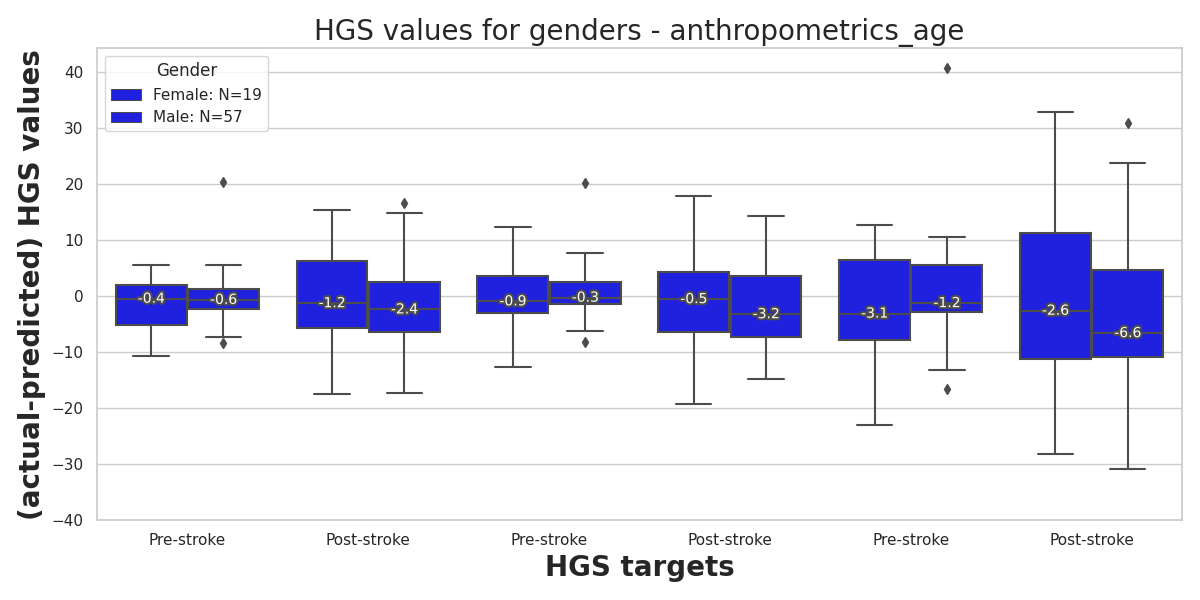
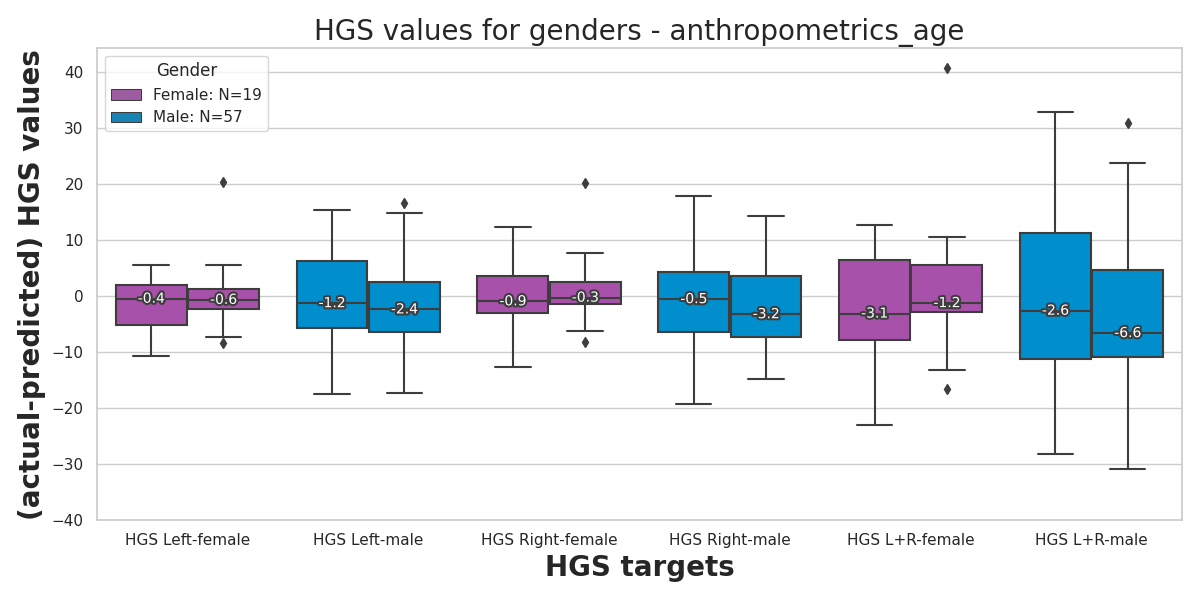
modified plots

diff --git a/exec/plots/plot_data_distribution/stroke/hgs_data_distripution_boxplot/longitudinal_stroke/boxplots_hgs_longitudinal_stroke_distribution_female_male_nexttoeachother.py b/exec/plots/plot_data_distribution/stroke/hgs_data_distripution_boxplot/longitudinal_stroke/boxplots_hgs_longitudinal_stroke_distribution_female_male_nexttoeachother.py
@@ -50,75 +50,6 @@ def add_median_labels(ax, fmt='.1f'):
 # print("===== Done! =====")
 # embed(globals(), locals())
 ###############################################################################
-# Create a list of column groups
-for yaxis_target in ["actual", "predicted", "(actual-predicted)"]:
-    column_groups = [
-    ("HGS Left", [f"1st_pre-stroke_hgs_left_{yaxis_target}", f"1st_post-stroke_hgs_left_{yaxis_target}"]),
-    ("HGS Right", [f"1st_pre-stroke_hgs_right_{yaxis_target}", f"1st_post-stroke_hgs_right_{yaxis_target}"]),
-    ("HGS L+R", [f"1st_pre-stroke_hgs_L+R_{yaxis_target}", f"1st_post-stroke_hgs_L+R_{yaxis_target}"])
-    ]
-
-    # Initialize an empty list to store the melted DataFrames
-    melted_dfs = []
-    # Iterate through column groups and create melted DataFrames
-    for group_name, group_columns in column_groups:
-        # Melt the DataFrame for the current group
-        melted_group = pd.melt(df_combined, id_vars=["gender"], value_vars=group_columns, var_name="variable", ignore_index=False)
-        
-        # Create 'hgs_category' based on 'group_name'
-        melted_group['hgs_category'] = group_name
-        
-        # Create 'stroke_cohort' based on 'variable'        
-        melted_group['stroke_cohort'] = melted_group['variable'].apply(lambda x: 'Pre-stroke' if 'pre-stroke' in x else ('Post-stroke' if 'post-stroke' in x else None))             
-        # Add a new column based on the combination of 'hgs_category' and 'stroke_cohort'
-        melted_group['combine_hgs_stroke_cohort_category'] = group_name + '-' + melted_group['stroke_cohort']
-        
-        # Create 'gender' based on 'gender' column
-        melted_group['gender'] = melted_group["gender"].map({0: 'female', 1: 'male'})
-        
-        # Drop the original 'variable' column
-        # melted_group.drop(columns=["gender"], inplace=True)
-        
-        # Append the melted DataFrame to the list
-        melted_dfs.append(melted_group)
-
-    # Concatenate the melted DataFrames into one without ignoring the original indexes
-    melted_df = pd.concat(melted_dfs, ignore_index=False)
-
-    print(melted_df)
-    ###############################################################################
-    # Define a custom palette with two blue colors
-    custom_palette = sns.color_palette(['#95CADB', '#008ECC'])  # You can use any hex color codes you prefer
-
-    # Create the boxplot with the custom palette
-    plt.figure(figsize=(10, 6))  # Adjust the figure size if needed
-    sns.set(style="whitegrid")
-    # sns.set_context("poster", font_scale=1.25)
-    ax = sns.boxplot(x="hgs_category", y="value", hue="stroke_cohort", data=melted_df, palette=custom_palette)    
-    # Add labels and title
-    plt.xlabel("HGS targets", fontsize=20, fontweight="bold")
-    plt.ylabel(f"{yaxis_target.capitalize()} HGS values", fontsize=20, fontweight="bold")
-    plt.title(f"pre-stroke and post-stroke HGS values - {feature_type}", fontsize=20)
-
-    ymin , ymax = ax.get_ylim()
-    if yaxis_target == "(actual-predicted)":
-        plt.yticks(np.arange(-40, 50, 10))
-    else:
-        plt.yticks(np.arange(0, 120, 10))
-    # Show the plot
-    plt.legend(title="stroke cohort", loc="upper left")  # Add legend
-    legend = plt.legend(title="Stroke cohort", loc="upper left")  # Add legend
-    # Modify individual legend labels
-    legend.get_texts()[0].set_text(f"Pre-stroke: N={len(df_longitudinal)}")
-    legend.get_texts()[1].set_text(f"Post-stroke: N={len(df_longitudinal)}")
-
-    plt.tight_layout()
-
-    add_median_labels(ax)
-    # medians = melted_df.groupby(['hgs_category', 'stroke_cohort'])['value'].median()
-    plt.show()
-    plt.savefig(f"{population}_{feature_type}_{yaxis_target}_hgs_both_gender.png")
-    plt.close()
 ###############################################################################
 ###############################################################################
 # Create a list of column groups
@@ -161,28 +92,26 @@ for yaxis_target in ["actual", "predicted", "(actual-predicted)"]:
     ###############################################################################
     # Define a custom palette with two blue colors
     # Create a custom palette dictionary based on the values of the x-axis variable
-    custom_palette = sns.color_palette(['#800080', '#000080'])  # You can use any hex color codes you prefer
+    custom_palette = sns.color_palette(['#a851ab', '#005c95'])  # You can use any hex color codes you prefer
     plt.figure(figsize=(12, 6))
     sns.set(style="whitegrid")
-    # Define a dictionary to map tick labels to box colors
-    # x_labels = ["HGS Left-female", "HGS Left-male", "HGS Right-female", "HGS Right-male", "HGS L+R-female", "HGS L+R-male"]
-    # colors = {"HGS Left-female-Pre-stroke": "red", 
-    #           "HGS Left-male-Pre-stroke": "blue",
-    #           'HGS Left-female-Post-stroke': "red", 
-    #           'HGS Left-male-Post-stroke': "blue",
-    #         'HGS Right-female-Pre-stroke': "red", 
-    #         'HGS Right-male-Pre-stroke': "blue",
-    #         'HGS Right-female-Post-stroke': "red", 
-    #         'HGS Right-male-Post-stroke': "blue",
-    #         'HGS L+R-female-Pre-stroke': "red", 
-    #         'HGS L+R-male-Pre-stroke': "blue",
-    #         'HGS L+R-female-Post-stroke': "red",
-    #         'HGS L+R-male-Post-stroke': "blue", 
-    #         }
-    # melted_df['combine_hgs_gender_hue'] = melted_df['combine_hgs_gender'] + '-' + melted_df['stroke_cohort']
-    # palette = [colors[label] for label in melted_df['combine_hgs_gender_hue'].unique()]
-    # ax = sns.boxplot(x="combine_hgs_gender", y="value", data=melted_df, hue="stroke_cohort", palette=custom_palette)
-    ax = sns.boxplot(x="combine_hgs_stroke_cohort_category", y="value", data=melted_df, hue="gender", palette=custom_palette)
+    ax = sns.boxplot(x="combine_hgs_gender", y="value", data=melted_df, hue="stroke_cohort", palette=custom_palette)
+    # ax = sns.boxplot(x="combine_hgs_stroke_cohort_category", y="value", data=melted_df, hue="gender", palette=custom_palette)
+
+    # Select which box you want to change    
+    ax.patches[1].set_facecolor('#a851ab')
+    ax.patches[3].set_facecolor('#a851ab')
+    ax.patches[4].set_facecolor('#005c95')
+    ax.patches[5].set_facecolor('#005c95')
+    ax.patches[6].set_facecolor('#a851ab')
+    ax.patches[7].set_facecolor('#a851ab')
+    ax.patches[8].set_facecolor('#005c95')
+    ax.patches[9].set_facecolor('#005c95')
+    ax.patches[10].set_facecolor('#a851ab')
+    ax.patches[11].set_facecolor('#a851ab')
+    ax.patches[12].set_facecolor('#005c95')
+    ax.patches[13].set_facecolor('#005c95')
+
     # Optionally, you can set the x-axis labels to be more readable
     if yaxis_target == "(actual-predicted)":
         plt.yticks(np.arange(-40, 50, 10))
@@ -201,8 +130,9 @@ for yaxis_target in ["actual", "predicted", "(actual-predicted)"]:
     plt.xlabel("HGS targets", fontsize=20, fontweight="bold")
     plt.ylabel(f"{yaxis_target.capitalize()} HGS values", fontsize=20, fontweight="bold")
     plt.title(f"HGS values for genders - {feature_type}", fontsize=20)
+    # ax.get_legend().remove()
     legend = plt.legend(title="Gender", loc="upper left")  # Add legend
-    # Modify individual legend labels
+    # # Modify individual legend labels
     legend.get_texts()[0].set_text(f"Female: N={len(df_longitudinal[df_longitudinal['gender']==0])}")
     legend.get_texts()[1].set_text(f"Male: N={len(df_longitudinal[df_longitudinal['gender']==1])}")
 
@@ -213,11 +143,8 @@ for yaxis_target in ["actual", "predicted", "(actual-predicted)"]:
     # medians = melted_df.groupby(['combine_hgs_stroke_cohort_category', 'gender'])['value'].median()
 
     plt.show()
-    plt.savefig("aaa.png")
-print("===== Done! =====")
-embed(globals(), locals())
-    # plt.savefig(f"{population}_{feature_type}_{yaxis_target}_hgs_female_male_separated.png")
-    # plt.close()
+    plt.savefig(f"femalemale_nexttoeachother_{population}_{feature_type}_{yaxis_target}_hgs_female_male_separated.png")
+    plt.close()
 print("===== Done! =====")
 embed(globals(), locals())
 ###############################################################################

diff --git a/exec/plots/plot_data_distribution/stroke/hgs_data_distripution_boxplot/longitudinal_stroke/healthy_boxplots_hgs_longitudinal_stroke_distribution_female_male_nextto_eachother.py b/exec/plots/plot_data_distribution/stroke/hgs_data_distripution_boxplot/longitudinal_stroke/healthy_boxplots_hgs_longitudinal_stroke_distribution_female_male_nextto_eachother.py
@@ -1,0 +1,160 @@
+import sys
+import pandas as pd
+import numpy as np
+import seaborn as sns
+import matplotlib.pyplot as plt
+import matplotlib.patheffects as path_effects
+from hgsprediction.load_results import healthy
+import statsmodels.api as sm
+
+from ptpython.repl import embed
+# print("===== Done! =====")
+# embed(globals(), locals())
+
+filename = sys.argv[0]
+population = sys.argv[1]
+mri_status = sys.argv[2]
+model_name = sys.argv[3]
+feature_type = sys.argv[4]
+
+df_combined = pd.DataFrame()
+for target in ["hgs_left", "hgs_right", "hgs_L+R"]:
+    df_2 = healthy.load_hgs_predicted_results(population,
+        mri_status,
+        model_name,
+        feature_type,
+        target,
+        "both_gender",
+        session="2",
+    )
+
+    df_3 = healthy.load_hgs_predicted_results(population,
+        mri_status,
+        model_name,
+        feature_type,
+        target,
+        "both_gender",
+        session="3",
+    )
+    
+    df_2_intersection = df_2[df_2.index.isin(df_3.index)]
+    df_3_intersection = df_3[df_3.index.isin(df_2.index)]
+
+    target_string = " ".join([word.upper() for word in target.split("_")])
+    df_2_intersection.loc[:, "target"] = f"{target_string}"
+    df_3_intersection.loc[:, "target"] = f"{target_string}"
+    
+    df_2_intersection.loc[:, "scan_session"] = "1st scan session"
+    df_3_intersection.loc[:, "scan_session"] = "2nd scan ession"
+    
+    selected_cols_2 = [col for col in df_2_intersection.columns if any(item in col for item in ["gender", "actual", "predicted", "(actual-predicted)", "scan_session", "target"])]
+    df_selected_2 = df_2_intersection[selected_cols_2]
+    
+    selected_cols_3 = [col for col in df_3_intersection.columns if any(item in col for item in ["gender", "actual", "predicted", "(actual-predicted)", "scan_session", "target"])]
+    df_selected_3 = df_3_intersection[selected_cols_3]
+    
+    prefix = f"1st_scan_{target}_"
+    df_selected_2.columns = df_selected_2.columns.str.replace(prefix, '')
+    prefix = f"2nd_scan_{target}_"
+    df_selected_3.columns = df_selected_3.columns.str.replace(prefix, '')
+    
+    df_merged = pd.concat([df_selected_2, df_selected_3]) 
+    df_combined = pd.concat([df_combined, df_merged])
+
+###############################################################################
+def add_median_labels(ax, fmt='.1f'):
+    lines = ax.get_lines()
+    boxes = [c for c in ax.get_children() if type(c).__name__ == 'PathPatch']
+    lines_per_box = int(len(lines) / len(boxes))
+    for median in lines[4:len(lines):lines_per_box]:
+        x, y = (data.mean() for data in median.get_data())
+        # choose value depending on horizontal or vertical plot orientation
+        value = x if (median.get_xdata()[1] - median.get_xdata()[0]) == 0 else y
+        text = ax.text(x, y, f'{value:{fmt}}', ha='center', va='center',  color='white', fontsize=10)
+                    #    fontweight='bold',
+        # create median-colored border around white text for contrast
+        text.set_path_effects([
+            path_effects.Stroke(linewidth=3, foreground=median.get_color()),
+            path_effects.Normal(),
+        ])
+
+###############################################################################
+feature_string = " + ".join([word.capitalize() for word in feature_type.split("_")])
+###############################################################################
+df_combined['gender'] = df_combined["gender"].map({0: 'female', 1: 'male'})
+df_combined.loc[:, "scan_session_gender"] = df_combined["scan_session"] + " " + df_combined["gender"]
+df_combined.loc[:, "target_gender"] = df_combined["target"] + " " + df_combined["gender"]
+
+# melted_data = pd.melt(df_combined, id_vars=['gender', 'scan_session', 'target'], var_name='hgs_type', value_name='hgs_value')
+# Define a custom palette with two blue colors
+custom_palette = sns.color_palette(['#a851ab', '#005c95'])  # You can use any hex color codes you prefer
+# Create the boxplot for 'hgs_category' and 'gender'
+# Create the boxplot with the custom palette
+for index, yaxis_target in enumerate(["actual", "predicted", "(actual-predicted)"]):
+    if yaxis_target == "(actual-predicted)":
+        yaxis_target_string = "Prediction error"
+    else:
+        yaxis_target_string = yaxis_target.capitalize()    
+    fig = plt.figure(figsize=(12, 6))
+    sns.set(style="whitegrid")
+    ax = sns.boxplot(x="target_gender", y=yaxis_target, data=df_combined, hue="scan_session", palette=custom_palette)
+    
+    # Select which box you want to change    
+    ax.patches[1].set_facecolor('#a851ab')
+    ax.patches[3].set_facecolor('#a851ab')
+    ax.patches[4].set_facecolor('#005c95')
+    ax.patches[5].set_facecolor('#005c95')
+    ax.patches[6].set_facecolor('#a851ab')
+    ax.patches[7].set_facecolor('#a851ab')
+    ax.patches[8].set_facecolor('#005c95')
+    ax.patches[9].set_facecolor('#005c95')
+    ax.patches[10].set_facecolor('#a851ab')
+    ax.patches[11].set_facecolor('#a851ab')
+    ax.patches[12].set_facecolor('#005c95')
+    ax.patches[13].set_facecolor('#005c95')
+    
+    
+    ymin , ymax = ax.get_ylim()
+    # changing the fontsize of ticks
+    plt.yticks(np.arange(min(ax.get_yticks()), max(ax.get_yticks()), 10))
+
+    # Add labels and title
+    plt.xlabel("HGS targets", fontsize=20, fontweight="bold")
+    if yaxis_target_string == "Prediction error":
+        plt.ylabel(f"{yaxis_target_string}", fontsize=20, fontweight="bold")
+    else:
+        plt.ylabel(f"{yaxis_target_string} HGS", fontsize=20, fontweight="bold")
+    plt.title(f"HGS for 1st and 2nd MRI scans - Healthy controls\n{feature_string}", fontsize=20, fontweight="bold")
+    
+    # Get the handles and labels from the legend
+    handles, labels = ax.get_legend_handles_labels()
+
+    # Remove the last two items (handles and labels)
+    # handles = handles[:-2]
+    # labels = labels[:-2]
+
+    # Set the modified handles and labels back to the legend
+    legend = ax.legend(handles, labels)
+    
+    # # Modify individual legend labels
+    # legend = plt.legend(title="Gender", loc="upper left")  # Add legend
+    legend.get_texts()[0].set_text(f"Female: N={len(df_2_intersection[df_2_intersection['gender']==0])}")
+    legend.get_texts()[1].set_text(f"Male: N={len(df_2_intersection[df_2_intersection['gender']==1])}")
+    
+    # Show the plot
+    plt.tight_layout()
+
+    add_median_labels(ax)
+    # medians = melted_df.groupby(['combine_hgs_stroke_cohort_category', 'gender'])['value'].median()
+
+    plt.show()
+    plt.savefig(f"femalemale_nexttoeachother_{population}_{yaxis_target}_hgs_female_male_separated.png")
+    plt.close()
+print("===== Done! =====")
+embed(globals(), locals())
+###############################################################################
+
+print("===== Done! =====")
+embed(globals(), locals())
+
+
